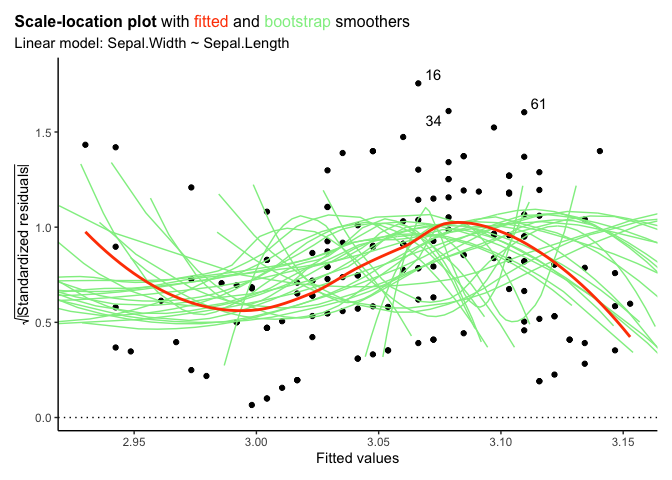
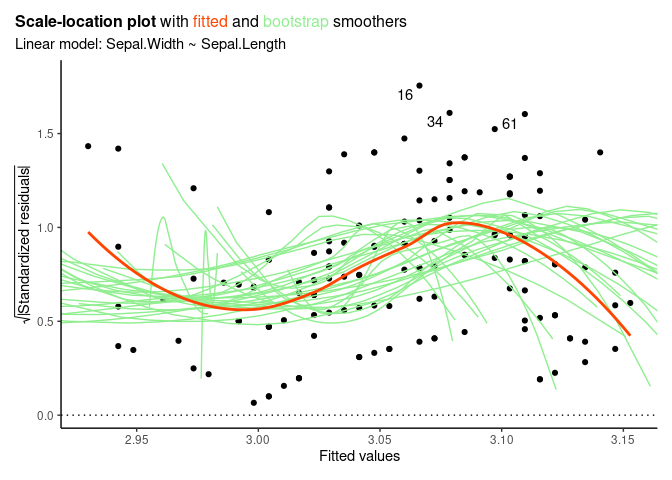
Use seed in readme

diff --git a/README.md b/README.md
@@ -51,6 +51,8 @@ library(iNZightRegression)
 #> * - use `inzsummary()` for a summary of model objects           *
 #> *****************************************************************
 iris.lm <- lm(Sepal.Width ~ Sepal.Length, data = iris)
+
+set.seed(246) # for bootstrap smoothers
 inzplot(iris.lm, which = "residual")
 ```
 
